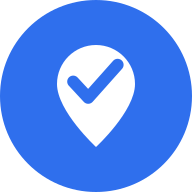
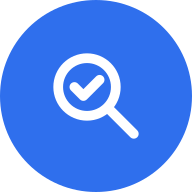
feat: align home shortcuts and introduce Korean site branding

Changed region(s): [[0.25, 0.2188, 0.75, 0.7812]]

diff --git a/src/lib/i18n/messages/ko.ts b/src/lib/i18n/messages/ko.ts
@@ -1,3 +1,5 @@
+import { KOREAN_SITE_NAME } from "@/lib/brand";
+
 // 다국어(i18n) Phase: 한국어 사전이자 이 앱의 "키 목록" 그 자체다 --
 // translate.ts의 TranslationKey가 이 객체의 키에서 나오므로, 여기에 없는
 // 키를 t()에 넘기면 컴파일이 실패한다(오타 방지). 나머지 언어 사전은
@@ -55,8 +57,8 @@ export const ko = {
   "nav.unreadNotifications": "읽지 않은 알림 {count}개",
 
   // ---------- 브랜드 ----------
-  "brand.name": "MJU Find",
-  "brand.shortName": "MJU Find",
+  "brand.name": KOREAN_SITE_NAME,
+  "brand.shortName": KOREAN_SITE_NAME,
   "brand.description": "명지대학교 분실물·습득물 찾기",
 
   // ---------- Footer ----------
@@ -65,7 +67,7 @@ export const ko = {
   "footer.contact": "운영팀 문의",
   "footer.developerContact": "개발자 문의",
   "footer.copyright":
-    "© {year} MJU Find. 특정 게시물·메시지·사용자에 대한 문의는 해당 화면의 신고 기능을 이용해주세요.",
+    `© {year} ${KOREAN_SITE_NAME}. 특정 게시물·메시지·사용자에 대한 문의는 해당 화면의 신고 기능을 이용해주세요.`,
   "footer.section.service": "서비스",
   "footer.section.community": "커뮤니티",
   "footer.section.guide": "안내",
@@ -198,6 +200,7 @@ export const ko = {
   "form.subcategory": "소분류",
   "form.subcategoryOptional": "(선택)",
   "form.subcategoryNone": "선택 안 함",
+  "form.subcategorySelectParent": "대분류를 먼저 선택하세요",
   "form.categorySuggestion": "{label}에 더 가까워 보여요.",
   "form.categorySuggestionApply": "이 분류로 선택",
   "form.categorySuggestionDismiss": "닫기",
@@ -514,7 +517,7 @@ export const ko = {
   "report.submitting": "제출 중...",
 
   // ---------- 로그인 / 온보딩 ----------
-  "auth.login.title": "MJU Find",
+  "auth.login.title": KOREAN_SITE_NAME,
   "auth.login.subtitle": "로그인하면 분실물·습득물을 등록하고, 채팅과 알림을 이용할 수 있어요.",
   "auth.login.google": "Google 계정으로 로그인",
   "auth.login.domainNotice": "명지대학교 Google 계정(@mju.ac.kr)으로 로그인해 주세요. 관리자 승인을 받은 외부 관계자는 승인된 Google 계정으로 로그인할 수 있어요.",
@@ -599,10 +602,10 @@ export const ko = {
   "push.working": "처리 중...",
   "push.statusOn": "이 기기에서 켜져 있어요",
   "push.statusOff": "이 기기에서 꺼져 있어요",
-  "push.denied": "브라우저에서 알림이 차단되어 있어요. 브라우저(또는 휴대폰) 설정의 사이트 설정 > 알림에서 MJU Find를 허용한 뒤 다시 시도해 주세요.",
+  "push.denied": `브라우저에서 알림이 차단되어 있어요. 브라우저(또는 휴대폰) 설정의 사이트 설정 > 알림에서 ${KOREAN_SITE_NAME}를 허용한 뒤 다시 시도해 주세요.`,
   "push.unsupported": "이 브라우저는 웹 푸시 알림을 지원하지 않아요.",
   "push.inApp": "앱 안의 브라우저(카카오톡·에브리타임 등)에서는 알림을 받을 수 없어요. 메뉴에서 '다른 브라우저로 열기'를 눌러 Chrome이나 Safari에서 열어 주세요.",
-  "push.iosHome": "아이폰에서는 Safari 공유 버튼 → '홈 화면에 추가'로 MJU Find를 추가한 뒤, 홈 화면 아이콘으로 열어 알림을 켜 주세요. (iOS 16.4 이상)",
+  "push.iosHome": `아이폰에서는 Safari 공유 버튼 → '홈 화면에 추가'로 ${KOREAN_SITE_NAME}를 추가한 뒤, 홈 화면 아이콘으로 열어 알림을 켜 주세요. (iOS 16.4 이상)`,
   "push.failed": "알림을 켜지 못했어요. 잠시 후 다시 시도해 주세요.",
   "push.otherDevices": "다른 기기 {count}대에서도 켜져 있어요.",
   "push.limits": "메시지 내용은 알림에 표시하지 않아요. 브라우저·휴대폰 설정(방해 금지 등)에 따라 늦거나 오지 않을 수 있어요.",

diff --git a/src/components/layout/Logo.tsx b/src/components/layout/Logo.tsx
@@ -11,14 +11,7 @@ type LogoMarkProps = {
 // "rounded-full bg-primary" circle + literal "M" text that used to be
 // copy-pasted across Header.tsx, login/page.tsx, and onboarding/page.tsx.
 //
-// The mark: a location pin (where a lost item turns up) with a checkmark
-// cut into its head (confirmed / recovered) -- one simple, single
-// silhouette that reads at a glance as both "위치" and "확인/신뢰" without
-// stacking every possible motif (M / search / tag / connection) into one
-// symbol, per this phase's own design brief ("심플한 하나의 핵심 형태를
-// 우선한다"). Renders cleanly down to favicon size: the pin is a single
-// filled shape, the checkmark a single bold stroke, no fine detail to
-// smear at 16-32px.
+// The magnifying glass and checkmark represent searching and finding.
 //
 // Colored via the existing `--primary`/`--primary-foreground` CSS custom
 // properties (the exact two tokens the old "M" badge already used, see
@@ -38,18 +31,10 @@ export function LogoMark({ size, className }: LogoMarkProps) {
       style={{ width: size, height: size }}
     >
       <svg width={iconSize} height={iconSize} viewBox="0 0 32 32" aria-hidden="true">
-        <path
-          d="M16 7.5C12.41 7.5 9.5 10.41 9.5 14C9.5 18.5 16 24.5 16 24.5C16 24.5 22.5 18.5 22.5 14C22.5 10.41 19.59 7.5 16 7.5Z"
-          fill="var(--primary-foreground)"
-        />
-        <path
-          d="M12.2 13.6L14.7 16.3L19.6 10.8"
-          stroke="var(--primary)"
-          strokeWidth="2"
-          fill="none"
-          strokeLinecap="round"
-          strokeLinejoin="round"
-        />
+        <g fill="none" stroke="var(--primary-foreground)" strokeWidth="2.7" strokeLinecap="round" strokeLinejoin="round">
+          <circle cx="13.5" cy="13.5" r="8" />
+          <path d="m19.5 19.5 7 7M10 13.5l2.5 2.5 4.5-4.5" />
+        </g>
       </svg>
     </span>
   );

diff --git a/src/app/(main)/page.tsx b/src/app/(main)/page.tsx
@@ -7,8 +7,20 @@ import { Hero } from "@/components/home/landing/Hero";
 import { LandingStats } from "@/components/home/landing/LandingStats";
 import { RecentPostsSections } from "@/components/home/RecentPostsSections";
 import { getTranslator } from "@/lib/i18n/server";
+import { ENGLISH_SITE_NAME, KOREAN_SITE_NAME } from "@/lib/brand";
+import { PRODUCTION_HOST } from "@/lib/devstats/vercelDeployment.mjs";
 
 export const metadata: Metadata = { alternates: { canonical: "/" } };
+
+const siteData = JSON.stringify({
+  "@context": "https://schema.org",
+  "@type": "WebSite",
+  name: KOREAN_SITE_NAME,
+  alternateName: ENGLISH_SITE_NAME,
+  url: `https://${PRODUCTION_HOST}/`,
+}).replace(/</g, "\\u003c");
+
+const siteSchema = <script type="application/ld+json" dangerouslySetInnerHTML={{ __html: siteData }} />;
 
 // Home. Public, no auth gate: the session only decides what follows the
 // first screen.
@@ -29,11 +41,17 @@ export const metadata: Metadata = { alternates: { canonical: "/" } };
 export default async function Home() {
   const [user, t] = await Promise.all([getCurrentUser(), getTranslator()]);
   if (!user) {
-    return <LandingHero />;
+    return (
+      <>
+        {siteSchema}
+        <LandingHero />
+      </>
+    );
   }
 
   return (
     <div className="flex flex-col gap-6 md:gap-8">
+      {siteSchema}
       <Hero compact />
       <QuickActions />
 

diff --git a/src/lib/push/service.ts b/src/lib/push/service.ts
@@ -1,5 +1,6 @@
 import webpush from "web-push";
 
+import { KOREAN_SITE_NAME } from "@/lib/brand";
 import { prisma } from "@/lib/db/prisma";
 import { Prisma } from "@/generated/prisma/client";
 
@@ -16,7 +17,7 @@ import { Prisma } from "@/generated/prisma/client";
 // from this side; the browser/OS may still drop or delay a notification.
 //
 // The notification never carries message text, the post title or a name:
-// "MJU Find / 새로운 채팅 메시지가 도착했어요." and the room's URL.
+// The site name, a generic notification, and the room URL.
 
 export const PUSH_TTL_SECONDS = 3600;
 export const PUSH_MAX_ATTEMPTS = 3;
@@ -41,7 +42,7 @@ export function pushConfig(): PushConfig | null {
   return publicKey && privateKey ? { publicKey, privateKey, subject } : null;
 }
 
-export const PUSH_TEXT = { title: "MJU Find", body: "새로운 채팅 메시지가 도착했어요." } as const;
+export const PUSH_TEXT = { title: KOREAN_SITE_NAME, body: "새로운 채팅 메시지가 도착했어요." } as const;
 export function chatPushPayload(chatRoomId: number) {
   return { title: PUSH_TEXT.title, body: PUSH_TEXT.body, url: `/chat/${chatRoomId}`, tag: `chat-${chatRoomId}` };
 }

diff --git a/src/components/layout/Header.tsx b/src/components/layout/Header.tsx
@@ -73,11 +73,6 @@ export async function Header() {
       <div className="mx-auto flex w-full max-w-4xl wide-board:max-w-6xl items-center justify-between gap-2 px-4 py-3 sm:gap-3 md:grid md:grid-cols-[minmax(min-content,1fr)_auto_minmax(min-content,1fr)] md:gap-2 md:px-6">
         <Link href="/" className="flex min-w-0 shrink-0 items-center gap-1.5 font-semibold text-foreground sm:gap-2 md:min-w-0 md:justify-self-start">
           <LogoMark size={32} />
-          {/* 브랜드명 통일 Phase: "MJU Find"는 짧아 모바일(320px)부터
-              데스크톱까지 어느 locale/breakpoint에서도 겹치거나 잘리지
-              않으므로, 이전의 "숨김" 정책을 모두 제거하고 항상 표시한다.
-              가장 좁은 화면(320~400px)에서 알림/프로필과 겹치지 않도록
-              글자 크기만 sm 미만에서 한 단계 줄인다. */}
           <span className="whitespace-nowrap text-sm sm:text-base">{t("brand.name")}</span>
         </Link>
 

diff --git a/src/components/home/QuickActions.tsx b/src/components/home/QuickActions.tsx
@@ -11,8 +11,8 @@ import { getTranslator } from "@/lib/i18n/server";
 const ACTIONS = [
   { href: "/lost/new", title: "landing.registerLost", desc: "home.quick.registerLost.desc", Icon: PlusIcon, primary: true },
   { href: "/found/new", title: "landing.registerFound", desc: "home.quick.registerFound.desc", Icon: PlusIcon, primary: true },
-  { href: "/found", title: "landing.stats.browseFound", desc: "home.quick.found.desc", Icon: HandboxIcon, primary: false },
   { href: "/lost", title: "landing.stats.browseLost", desc: "home.quick.lost.desc", Icon: BoxIcon, primary: false },
+  { href: "/found", title: "landing.stats.browseFound", desc: "home.quick.found.desc", Icon: HandboxIcon, primary: false },
 ] as const;
 
 export async function QuickActions() {

diff --git a/src/app/manifest.ts b/src/app/manifest.ts
@@ -1,4 +1,5 @@
 import type { MetadataRoute } from "next";
+import { KOREAN_SITE_NAME } from "@/lib/brand";
 
 // Phase 11-5: Next.js App Router's native manifest file convention -- this
 // file alone is what makes /manifest.webmanifest exist and get auto-linked
@@ -17,8 +18,8 @@ import type { MetadataRoute } from "next";
 // values (globals.css), never invented colors.
 export default function manifest(): MetadataRoute.Manifest {
   return {
-    name: "명지인을 위한 스마트 분실물 센터 — MJU Find",
-    short_name: "MJU Find",
+    name: KOREAN_SITE_NAME,
+    short_name: KOREAN_SITE_NAME,
     description: "명지대학교 학생을 위한 분실물 등록·검색·연락 서비스",
     start_url: "/",
     display: "standalone",

diff --git a/src/app/layout.tsx b/src/app/layout.tsx
@@ -21,11 +21,7 @@ const geistMono = Geist_Mono({
   subsets: ["latin"],
 });
 
-// 브랜드명 통일 Phase: 브라우저 제목/설명이 "MJU Find | [현재 locale의
-// 서비스 설명]" 형식이 되어야 하므로, 정적 `metadata` 객체 대신 요청마다
-// locale을 읽어 조립하는 generateMetadata()로 바꿨다 -- 이 레이아웃이
-// 이미 getLocale()로 동적 렌더링임을 감수하고 있으므로 새로 정적 렌더링을
-// 포기하는 페이지는 없다(RootLayout 자체 주석 참고).
+// Localize the browser title and metadata using the same locale as the page.
 export async function generateMetadata(): Promise<Metadata> {
   const t = await getTranslator();
   const brandName = t("brand.name");

diff --git a/src/app/global-error.tsx b/src/app/global-error.tsx
@@ -3,6 +3,7 @@
 import "./globals.css";
 
 import { ErrorScreen } from "@/components/layout/ErrorScreen";
+import { KOREAN_SITE_NAME } from "@/lib/brand";
 
 // Last resort when the root layout itself fails: replaces the whole
 // document, so it brings its own <html>/<body> and the global styles.
@@ -10,7 +11,7 @@ export default function GlobalError({ error, retry }: { error: Error & { digest?
   return (
     <html lang="ko">
       <body className="flex min-h-dvh flex-col bg-background text-foreground antialiased">
-        <title>오류 | MJU Find</title>
+        <title>{`오류 | ${KOREAN_SITE_NAME}`}</title>
         <ErrorScreen error={error} retry={retry} />
       </body>
     </html>

diff --git a/src/components/home/QuickActions.test.tsx b/src/components/home/QuickActions.test.tsx
@@ -10,9 +10,9 @@ const { QuickActions } = await import("./QuickActions");
 const html = renderToStaticMarkup(await QuickActions());
 
 describe("홈 빠른 기능 바로가기", () => {
-  it("puts the two register buttons in the first row before board shortcuts", () => {
+  it("orders lost before found in both the registration and board shortcuts", () => {
     const hrefs = [...html.matchAll(/href="([^"]+)"/g)].map((m) => m[1]);
-    expect(hrefs).toEqual(["/lost/new", "/found/new", "/found", "/lost"]);
+    expect(hrefs).toEqual(["/lost/new", "/found/new", "/lost", "/found"]);
   });
 
   it("gives every shortcut a title and a short description", () => {

diff --git a/src/components/post/CategoryPicker.tsx b/src/components/post/CategoryPicker.tsx
@@ -87,7 +87,7 @@ export function CategoryPicker({ value, onChange, required, legacyUnmapped, titl
             disabled={disabled || value.categoryCode === null}
             className={FIELD_CLASS}
           >
-            <option value="">{t(value.categoryCode === null ? "form.categorySelectPlaceholder" : "form.subcategoryNone")}</option>
+            <option value="">{t(value.categoryCode === null ? "form.subcategorySelectParent" : "form.subcategoryNone")}</option>
             {value.categoryCode && subcategoriesOf(value.categoryCode).map((code) => (
               <option key={code} value={code}>
                 {t(taxonomySubcategoryLabelKey(code))}

diff --git a/src/components/search/CategoryFilterSelects.tsx b/src/components/search/CategoryFilterSelects.tsx
@@ -53,7 +53,7 @@ export function CategoryFilterSelects({ value, onChange, selectClassName, emptyL
         }}
         className={selectClassName}
       >
-        <option value="">{value.categoryCode ? (subcategoryEmptyLabel ?? t("search.filter.subcategoryAll")) : t("form.categorySelectPlaceholder")}</option>
+        <option value="">{value.categoryCode ? (subcategoryEmptyLabel ?? t("search.filter.subcategoryAll")) : t("form.subcategorySelectParent")}</option>
         {value.categoryCode && subcategoriesOf(value.categoryCode).map((code) => (
           <option key={code} value={code}>
             {t(taxonomySubcategoryLabelKey(code))}
